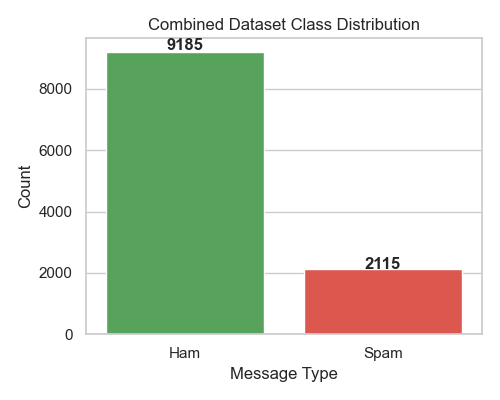
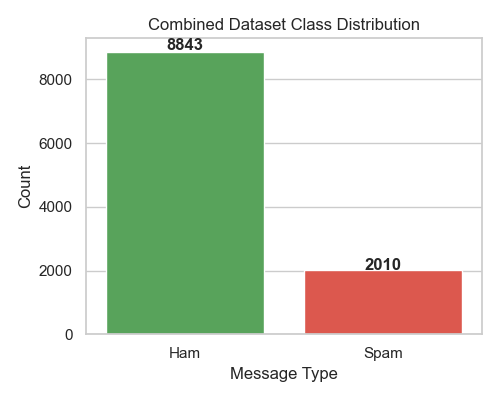
fixed up code and stuff and general changed and adds around

diff --git a/spam_detection.py b/spam_detection.py
@@ -9,27 +9,24 @@ import os
 
 # === Load both datasets ===
 # Original dataset
-df1 = pd.read_csv("data/spam_dataset.csv")
+df1 = pd.read_csv("data/spam_cleaned.csv")
 
-# Kaggle dataset (with encoding fallback)
+# Kaggle dataset
 try:
-    df2 = pd.read_csv("data/kaggle_spam.csv", encoding="utf-8")
+    df2 = pd.read_csv("data/kaggle_spam_cleaned.csv", encoding="utf-8")
 except UnicodeDecodeError:
-    df2 = pd.read_csv("data/kaggle_spam.csv", encoding="latin-1")
+    df2 = pd.read_csv("data/kaggle_spam_cleaned.csv", encoding="latin-1")
 
-# === Clean / standardize Kaggle dataset ===
-# Keep relevant columns and rename
-df2 = df2[["v1", "v2"]]
-df2.columns = ["label", "text"]
-df2["spam"] = df2["label"].map({"ham": 0, "spam": 1})
-df2 = df2.dropna(subset=["text"])
+# === Standardize Kaggle dataset column names ===
+df2 = df2.rename(columns={"label_num": "spam"})  # target column
+df2 = df2[["text", "spam"]].dropna(subset=["text"])
 
-# === Clean / standardize original dataset ===
+# === Standardize original dataset column names ===
 # (Assuming it already has "text" and "spam" columns)
 if "spam" not in df1.columns or "text" not in df1.columns:
     raise ValueError("Original dataset must have columns 'text' and 'spam'.")
 
-# === Combine both ===
+# === Combine both datasets ===
 df = pd.concat([df1[["text", "spam"]], df2[["text", "spam"]]], ignore_index=True)
 
 # === Check combined dataset ===

diff --git a/malware_detection.py b/malware_detection.py
@@ -6,7 +6,7 @@ from sklearn.metrics import classification_report, confusion_matrix, accuracy_sc
 import seaborn as sns
 
 # Load dataset
-df = pd.read_csv("data/malware_dataset.csv")
+df = pd.read_csv("data/malware_cleaned.csv")
 
 # Drop ID-like columns if present
 if "hash" in df.columns:
